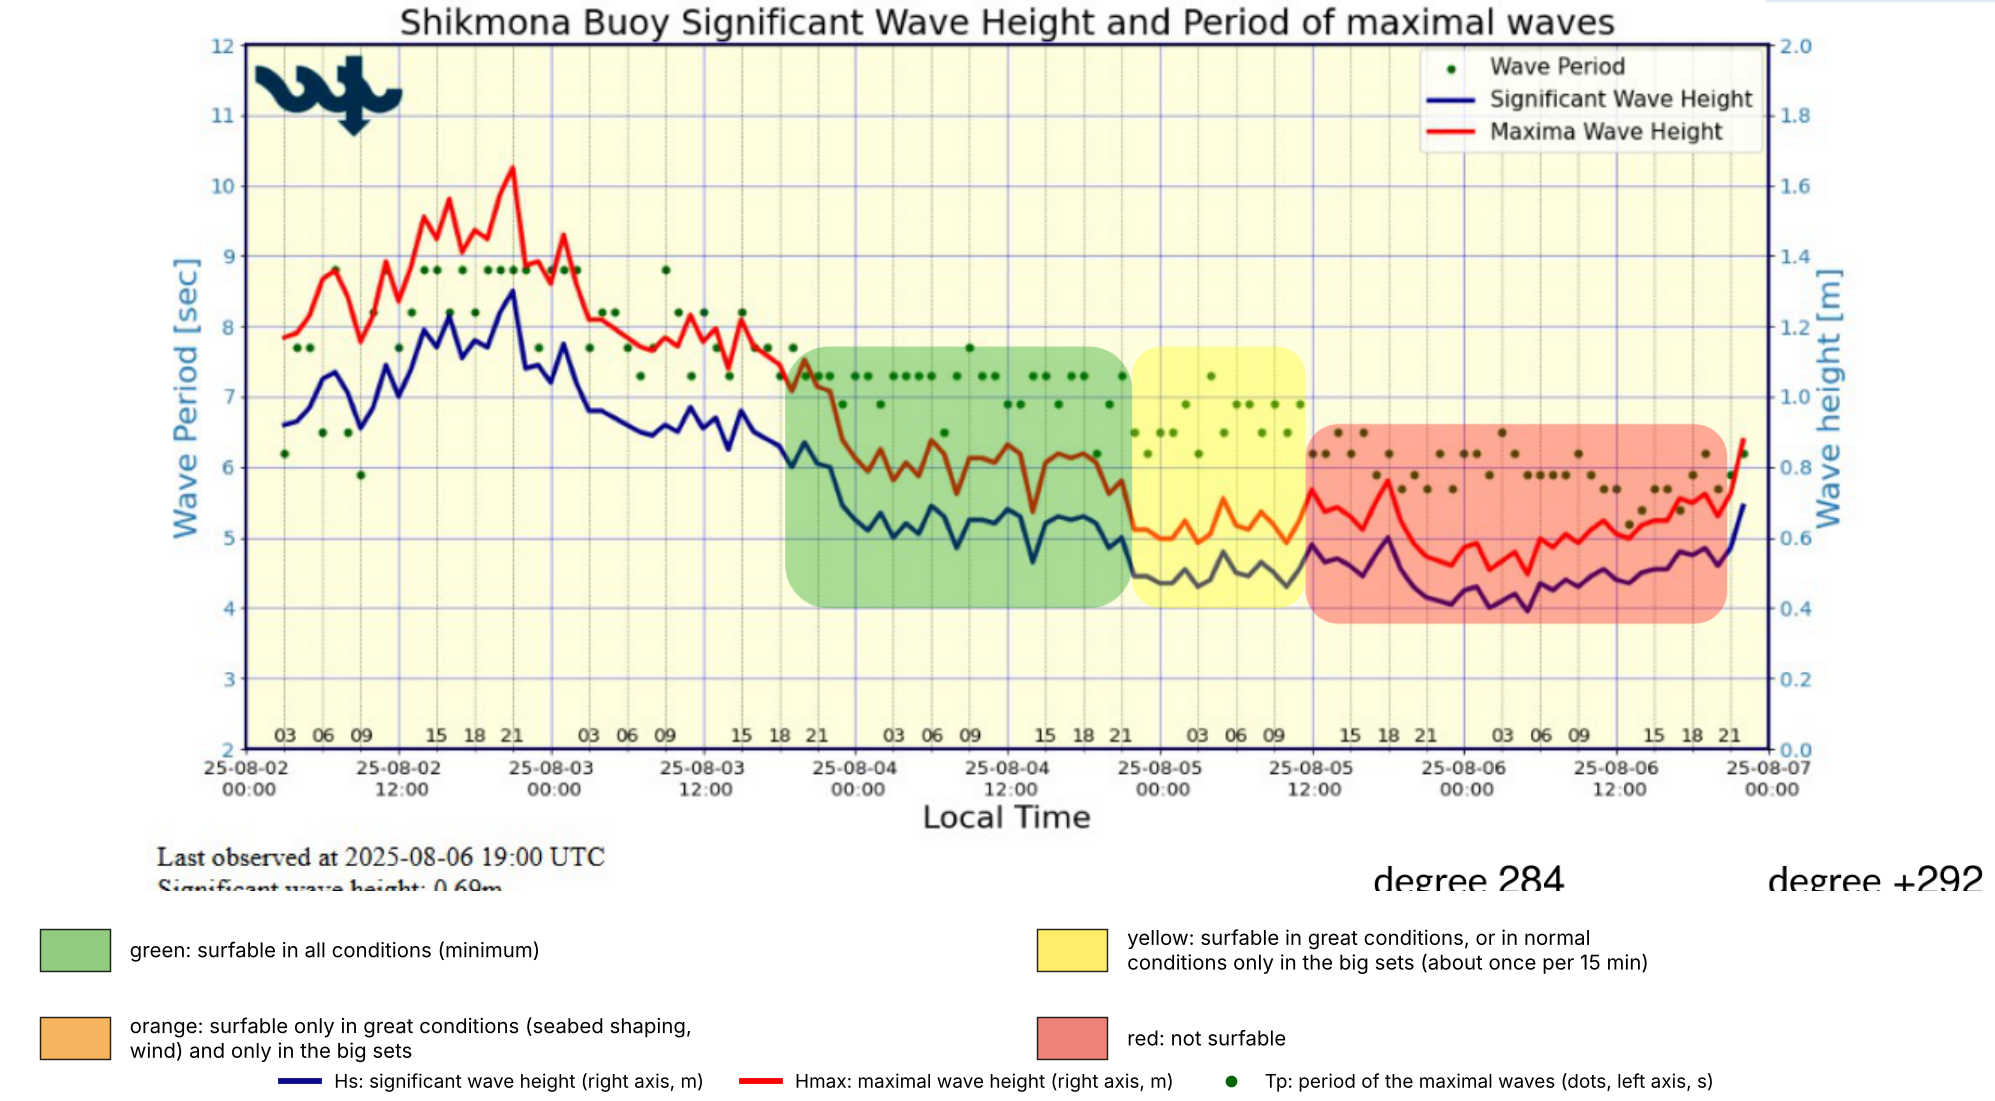
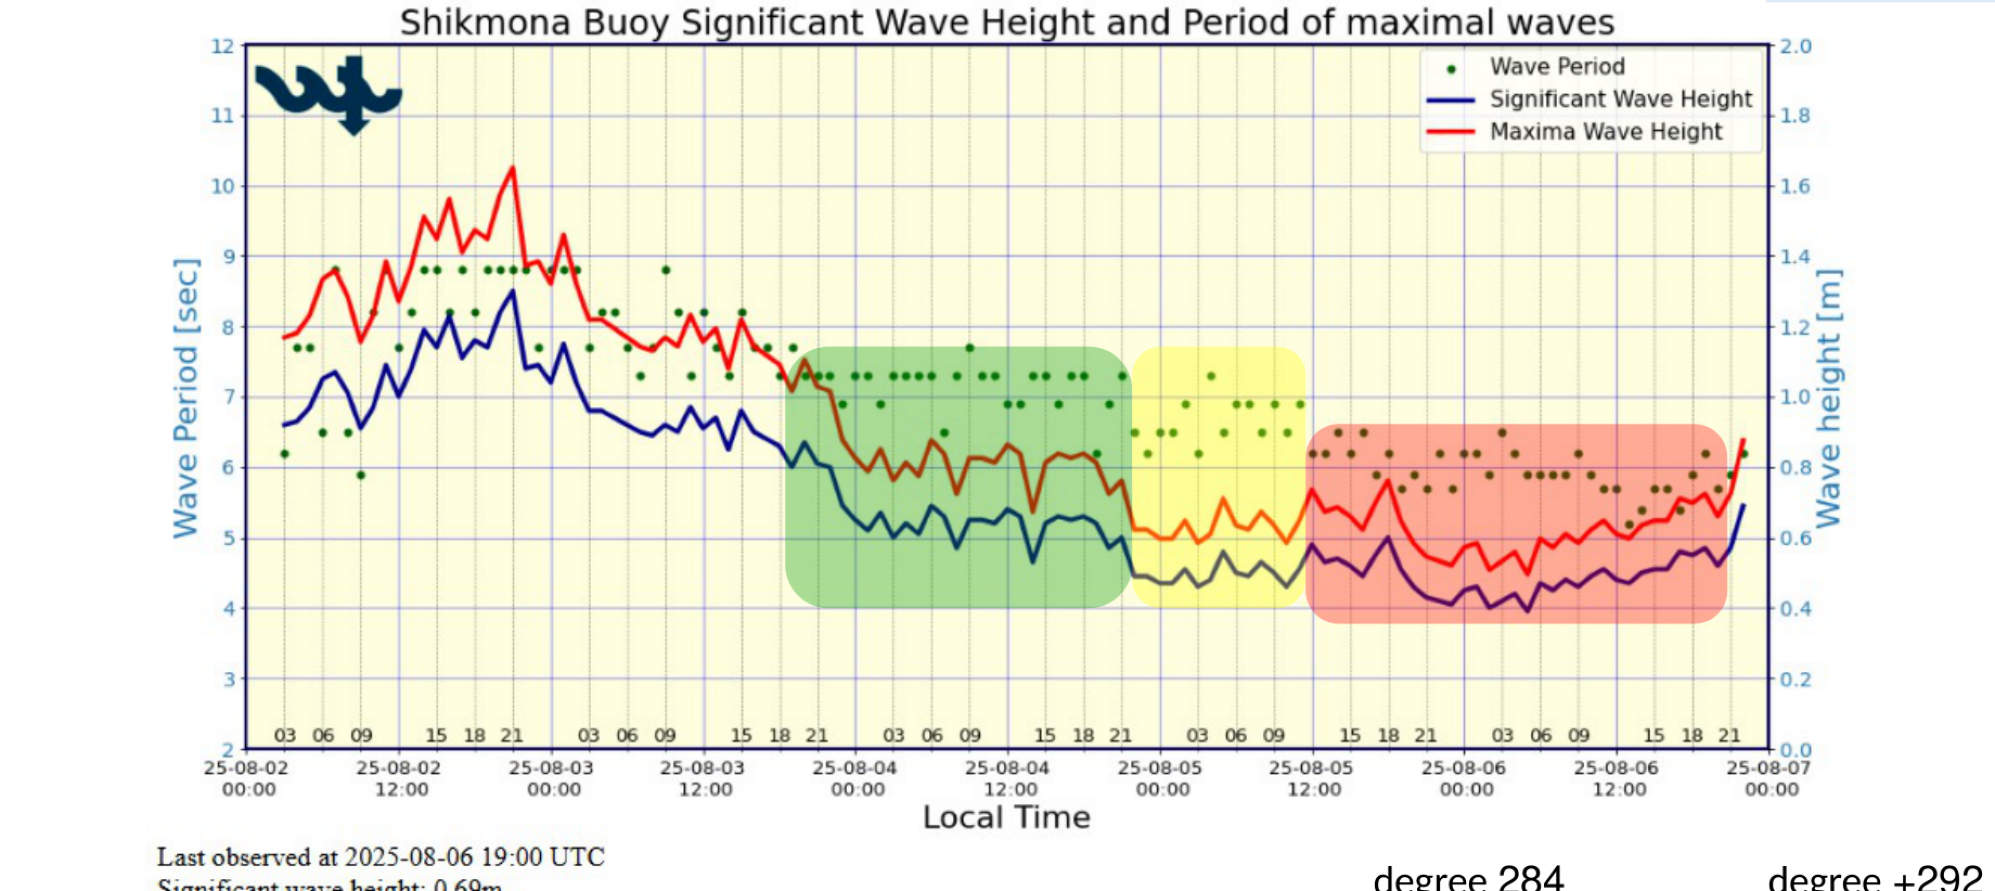
Paper: Appendix G single legend (Figure G0)
Claude-Session: https://claude.ai/code/session_01QomPr3DTbVDqthgNQChCrv

diff --git a/08_paper/sections/appendix_G_haifa_measurements.md b/08_paper/sections/appendix_G_haifa_measurements.md
@@ -111,19 +111,21 @@ Both sets are field measurements by a single observer. The uncertainty of the ta
 
 ## G.6 Annotated buoy records
 
-Figures G1 to G6 reproduce the author's annotated chart slides (slides 3 to 8 of the author's presentation, charts A to F), rendered with the coloured boxes drawn by the author over the ISRAMAR chart. Each box marks a stretch of the record in which the author classified the surf at Haifa by the colour scheme of Section G.2. The legend strip below each chart was added by this review; the chart, the boxes and the author's handwritten swell-direction notes are unchanged (the Hebrew notes on the slides are replaced by the legend). Figure G7 shows the depth-measure slide (slide 2) used in Section G.5.
+Figures G1 to G6 reproduce the author's annotated chart slides (slides 3 to 8 of the author's presentation, charts A to F), rendered with the coloured boxes drawn by the author over the ISRAMAR chart. Each box marks a stretch of the record in which the author classified the surf at Haifa by the colour scheme of Section G.2. A single legend (Figure G0, below) applies to all six charts; it was added by this review. The chart, the boxes and the author's handwritten swell-direction notes are unchanged. Figure G7 shows the depth-measure slide (slide 2) used in Section G.5.
 
-![**Figure G1.** Chart A (slide 3): ISRAMAR Shikmona buoy record, 27 July to 1 August 2025, local time [@isramar2025]. Blue line: significant wave height $H_s$; red line: maximal wave height $H_{max}$ (both on the right axis, m); green dots: period of the maximal waves $T_p$ (left axis, s). The coloured boxes are the author's field classification of the surf, not an ISRAMAR product: green, surfable in all conditions (minimum); yellow, surfable in great conditions or, in normal conditions, only in the big sets that arrive about once in 15 minutes; orange, surfable only in great conditions (seabed shaping, wind) and only in the big sets; red, not surfable.](figures/appendixG/g1_buoy_27jul-1aug_A.png){width=90%}
+![**Figure G0.** Legend for Figures G1 to G6. Box colours (the author's field classification of the surf): green, surfable in all conditions (minimum); yellow, surfable in great conditions or, in normal conditions, only in the big sets that arrive about once in 15 minutes; orange, surfable only in great conditions (seabed shaping, wind) and only in the big sets; red, not surfable. Curves: blue, $H_s$ (right axis, m); red, $H_{max}$ (right axis, m); green dots, $T_p$ (left axis, s).](figures/appendixG/g0_legend.png){width=90%}
 
-![**Figure G2.** Chart B (slide 4): ISRAMAR Shikmona buoy record, 2 to 7 August 2025, local time [@isramar2025]. Blue line: significant wave height $H_s$; red line: maximal wave height $H_{max}$ (both on the right axis, m); green dots: period of the maximal waves $T_p$ (left axis, s). The coloured boxes are the author's field classification of the surf, not an ISRAMAR product: green, surfable in all conditions (minimum); yellow, surfable in great conditions or, in normal conditions, only in the big sets that arrive about once in 15 minutes; orange, surfable only in great conditions (seabed shaping, wind) and only in the big sets; red, not surfable.](figures/appendixG/g2_buoy_2-7aug_B.png){width=90%}
+![**Figure G1.** Chart A (slide 3): ISRAMAR Shikmona buoy record, 27 July to 1 August 2025, local time [@isramar2025]. Blue line: significant wave height $H_s$; red line: maximal wave height $H_{max}$ (both on the right axis, m); green dots: period of the maximal waves $T_p$ (left axis, s). The coloured boxes are the author's field classification of the surf, not an ISRAMAR product; legend as in Figure G0 above.](figures/appendixG/g1_buoy_27jul-1aug_A.png){width=90%}
 
-![**Figure G3.** Chart C (slide 5): ISRAMAR Shikmona buoy record, 11 to 15 August 2025, local time [@isramar2025]. Blue line: significant wave height $H_s$; red line: maximal wave height $H_{max}$ (both on the right axis, m); green dots: period of the maximal waves $T_p$ (left axis, s). The coloured boxes are the author's field classification of the surf, not an ISRAMAR product: green, surfable in all conditions (minimum); yellow, surfable in great conditions or, in normal conditions, only in the big sets that arrive about once in 15 minutes; orange, surfable only in great conditions (seabed shaping, wind) and only in the big sets; red, not surfable.](figures/appendixG/g3_buoy_11-15aug_C.png){width=90%}
+![**Figure G2.** Chart B (slide 4): ISRAMAR Shikmona buoy record, 2 to 7 August 2025, local time [@isramar2025]. Blue line: significant wave height $H_s$; red line: maximal wave height $H_{max}$ (both on the right axis, m); green dots: period of the maximal waves $T_p$ (left axis, s). The coloured boxes are the author's field classification of the surf, not an ISRAMAR product; legend as in Figure G0 above.](figures/appendixG/g2_buoy_2-7aug_B.png){width=90%}
 
-![**Figure G4.** Chart D (slide 6): ISRAMAR Shikmona buoy record, 3 to 9 September 2025 (the screenshot has a splice that omits part of 7 to 8 September), local time [@isramar2025]. Blue line: significant wave height $H_s$; red line: maximal wave height $H_{max}$ (both on the right axis, m); green dots: period of the maximal waves $T_p$ (left axis, s). The coloured boxes are the author's field classification of the surf, not an ISRAMAR product: green, surfable in all conditions (minimum); yellow, surfable in great conditions or, in normal conditions, only in the big sets that arrive about once in 15 minutes; orange, surfable only in great conditions (seabed shaping, wind) and only in the big sets; red, not surfable.](figures/appendixG/g4_buoy_3-9sep_D.png){width=90%}
+![**Figure G3.** Chart C (slide 5): ISRAMAR Shikmona buoy record, 11 to 15 August 2025, local time [@isramar2025]. Blue line: significant wave height $H_s$; red line: maximal wave height $H_{max}$ (both on the right axis, m); green dots: period of the maximal waves $T_p$ (left axis, s). The coloured boxes are the author's field classification of the surf, not an ISRAMAR product; legend as in Figure G0 above.](figures/appendixG/g3_buoy_11-15aug_C.png){width=90%}
 
-![**Figure G5.** Chart E (slide 7): ISRAMAR Shikmona buoy record, 15 to 19 September 2025, local time [@isramar2025]. Blue line: significant wave height $H_s$; red line: maximal wave height $H_{max}$ (both on the right axis, m); green dots: period of the maximal waves $T_p$ (left axis, s). The coloured boxes are the author's field classification of the surf, not an ISRAMAR product: green, surfable in all conditions (minimum); yellow, surfable in great conditions or, in normal conditions, only in the big sets that arrive about once in 15 minutes; orange, surfable only in great conditions (seabed shaping, wind) and only in the big sets; red, not surfable.](figures/appendixG/g5_buoy_15-19sep_E.png){width=90%}
+![**Figure G4.** Chart D (slide 6): ISRAMAR Shikmona buoy record, 3 to 9 September 2025 (the screenshot has a splice that omits part of 7 to 8 September), local time [@isramar2025]. Blue line: significant wave height $H_s$; red line: maximal wave height $H_{max}$ (both on the right axis, m); green dots: period of the maximal waves $T_p$ (left axis, s). The coloured boxes are the author's field classification of the surf, not an ISRAMAR product; legend as in Figure G0 above.](figures/appendixG/g4_buoy_3-9sep_D.png){width=90%}
 
-![**Figure G6.** Chart F (slide 8): ISRAMAR Shikmona buoy record, 5 to 9 October 2025, local time [@isramar2025]. Blue line: significant wave height $H_s$; red line: maximal wave height $H_{max}$ (both on the right axis, m); green dots: period of the maximal waves $T_p$ (left axis, s). The coloured boxes are the author's field classification of the surf, not an ISRAMAR product: green, surfable in all conditions (minimum); yellow, surfable in great conditions or, in normal conditions, only in the big sets that arrive about once in 15 minutes; orange, surfable only in great conditions (seabed shaping, wind) and only in the big sets; red, not surfable.](figures/appendixG/g6_buoy_5-9oct_F.png){width=90%}
+![**Figure G5.** Chart E (slide 7): ISRAMAR Shikmona buoy record, 15 to 19 September 2025, local time [@isramar2025]. Blue line: significant wave height $H_s$; red line: maximal wave height $H_{max}$ (both on the right axis, m); green dots: period of the maximal waves $T_p$ (left axis, s). The coloured boxes are the author's field classification of the surf, not an ISRAMAR product; legend as in Figure G0 above.](figures/appendixG/g5_buoy_15-19sep_E.png){width=90%}
+
+![**Figure G6.** Chart F (slide 8): ISRAMAR Shikmona buoy record, 5 to 9 October 2025, local time [@isramar2025]. Blue line: significant wave height $H_s$; red line: maximal wave height $H_{max}$ (both on the right axis, m); green dots: period of the maximal waves $T_p$ (left axis, s). The coloured boxes are the author's field classification of the surf, not an ISRAMAR product; legend as in Figure G0 above.](figures/appendixG/g6_buoy_5-9oct_F.png){width=90%}
 
 ![**Figure G7.** Depth measures (slide 2 of the author's presentation): water depths measured by the author on days with $H_s$ 0.45 to 0.60 m for the low and high bound of wave height, front and side view, with the distance to the break (accuracy $\pm$0.5 m). The values are the author's field measurements; see Section G.5.](figures/appendixG/g7_depth_measures_slide2.png){width=90%}
 
